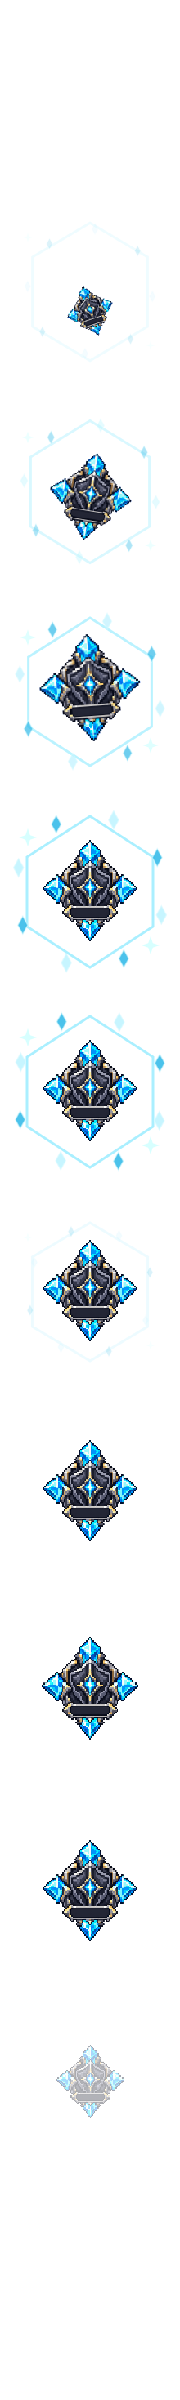
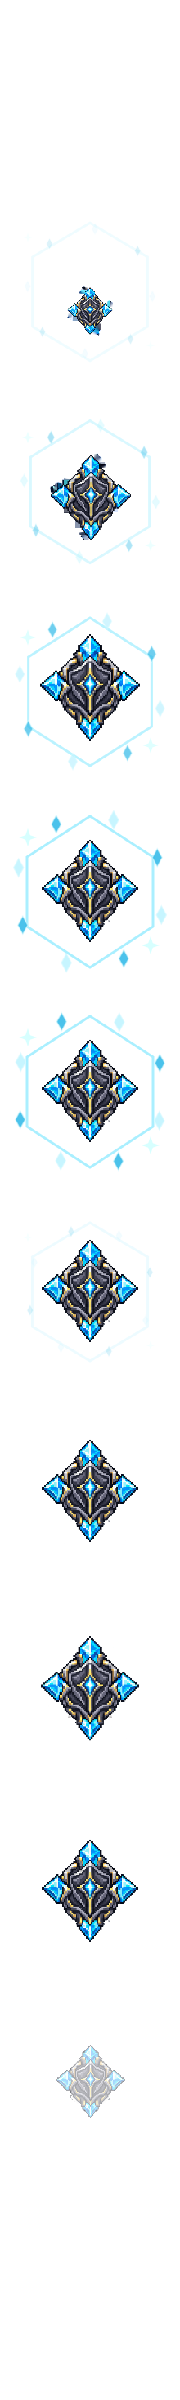
Use the new league crests in the Flex effect [skip ci]
The Silver, Gold, Crystal, Mythic and Legend Flex sheets had the old
crest with the black nameplate baked into every frame. Each frame now
shows the web app's current crest at the same size and place, with the
rays and glow kept. Bronze (round Flex crest) and Goose are unchanged.

diff --git a/apps/desktop/ui/assets/README.md b/apps/desktop/ui/assets/README.md
@@ -5,6 +5,9 @@ current crest from `leagues/`.
 The seven PNGs in `leagues/` are exact copies of the web app's leaderboard
 crests. Each transparent `flex-fx/<league>.png` stacks twelve 180×200 frames;
 `hero/flex.mjs` defines their playback timing and placement above the hero.
+The Silver to Legend sheets carry the same crests as `leagues/` (no nameplate):
+the old crest was located in each frame and replaced, keeping the rays and glow
+behind it. Bronze uses its round Flex crest (`docs/bronze-flex-effect.md`).
 `angry-mark.png` is the shared large Angry effect. Grab has no button or effect
 asset because its motion is authored into every hero's animation frames.
 
